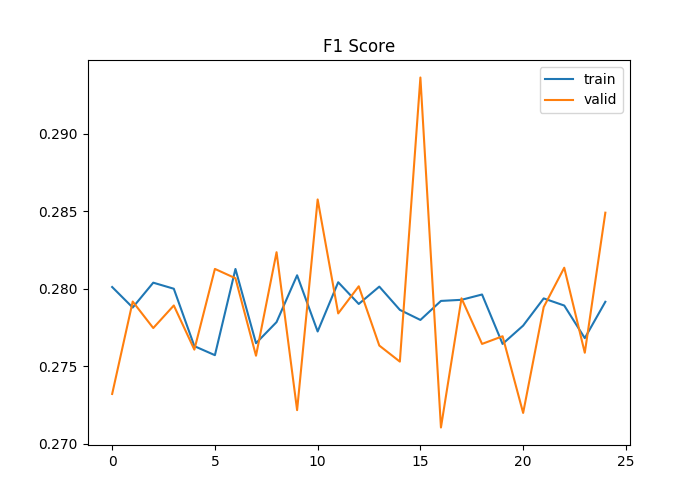
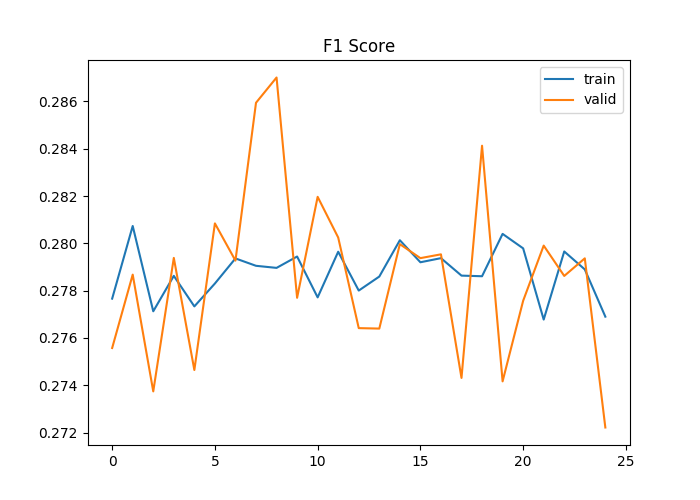
change dropout

diff --git a/My_Code/task1/CNN-3.py b/My_Code/task1/CNN-3.py
@@ -659,7 +659,7 @@ class CNN(nn.Module):
 		max_out=F.max_pool1d(activation, activation.size()[2])
 		#print(' 1 max_out.size()= ', max_out.size(), end=' ')
 		# maxpool_out.size() = (batch_size, out_channels, 1)
-        
+
 		max_out = max_out.squeeze(2)
 		#print(' 2 max_out.size()= ', max_out.size(), '\n')
 		# maxpool_out.size() = (batch_size, out_channels)
@@ -869,7 +869,7 @@ def save(epoch):
 
 # CNN model
 # batch_size, in_channels, out_channels, kernel_heights, stride, padding, keep_probab, vocab_size, embedding_length, weights
-model = CNN (batch_size, 1, 1, [2, 3, 4], 1, 0, 0.9, max_words, embedding_dim, embedding_matrix)
+model = CNN (batch_size, 1, 1, [2, 3, 4], 1, 0, 0, max_words, embedding_dim, embedding_matrix)
 
 opt = torch.optim.AdamW(model.parameters(), lr=learning_rate)
 criteria = torch.nn.BCELoss()
